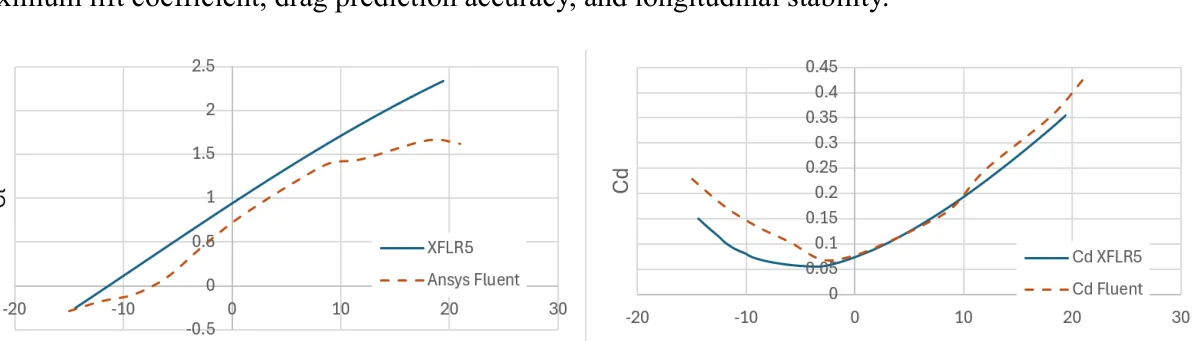
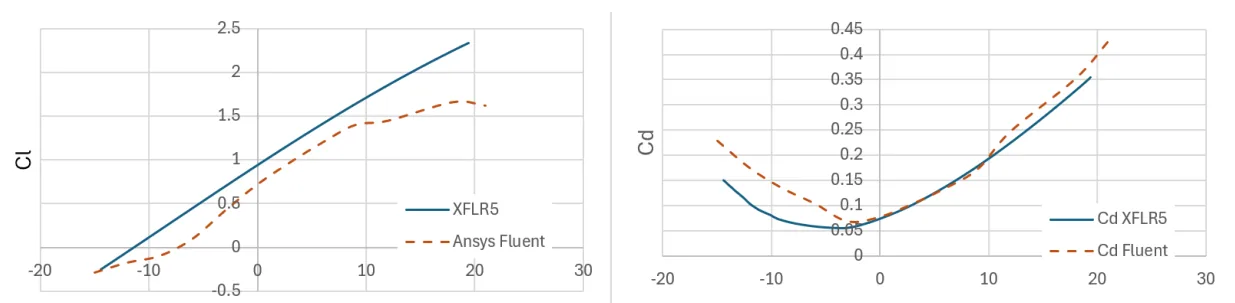
Refine Latías CFD figure crop

diff --git a/projects/latias.html b/projects/latias.html
@@ -43,7 +43,7 @@
 <section class="case-section" id="analysis">
 <p class="eyebrow">03 / ANALYSIS → DESIGN DECISION</p><h2>Balance across empty and loaded states.</h2>
 <div class="latias-media-pair"><div><p>Stability studies favored an empty-aircraft CG near 30% mean aerodynamic chord: targeting 25% in that configuration would have demanded a larger horizontal stabilizer. With full payload, the planned CG shifted forward toward 25%, increasing the static margin. We assessed both configurations before fixing the aircraft layout and battery location.</p><p class="caption">The CG decision came from stability and mass-property analysis. The CAD and aerodynamic figures below show analytical work, not flight-test measurements.</p></div><figure><img src="../images/latias/cad-layout.webp" width="930" height="351" loading="lazy" decoding="async" alt="CAD views of Latías airframe and its structural layout"><figcaption>Integrated CAD layout and subsystem packaging, from the team design report.</figcaption></figure></div>
-<div class="latias-figure-grid"><figure><img src="../images/latias/cfd-field.webp" width="1030" height="345" loading="lazy" decoding="async" alt="CFD visualizations of airflow and surface pressure on Latías"><figcaption>CFD flow and pressure fields. Simulated behavior, with model limitations at high angle of attack.</figcaption></figure><figure><img src="../images/latias/cfd-comparison.webp" width="1195" height="341" loading="lazy" decoding="async" alt="Lift and drag curves comparing lower-order XFLR5 predictions with CFD"><figcaption>VLM and CFD comparison used to assess aerodynamic estimates; the methods diverged more at higher angles of attack.</figcaption></figure></div>
+<div class="latias-figure-grid"><figure><img src="../images/latias/cfd-field.webp" width="1030" height="345" loading="lazy" decoding="async" alt="CFD visualizations of airflow and surface pressure on Latías"><figcaption>CFD flow and pressure fields. Simulated behavior, with model limitations at high angle of attack.</figcaption></figure><figure><img src="../images/latias/cfd-comparison.webp" width="1235" height="303" loading="lazy" decoding="async" alt="Lift and drag curves comparing lower-order XFLR5 predictions with CFD"><figcaption>VLM and CFD comparison used to assess aerodynamic estimates; the methods diverged more at higher angles of attack.</figcaption></figure></div>
 <p>CFD-derived drag coefficients also fed the takeoff-run estimate and density-altitude payload planning. We used those calculations to set test thresholds for Atizapán; no quantitative CFD-to-flight correlation was measured.</p>
 </section>
 <section class="case-section" id="integration">
